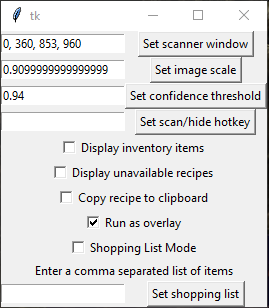
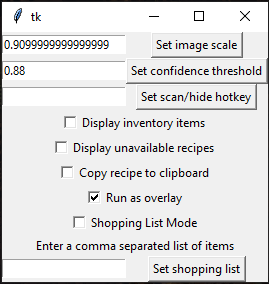
Update documentation for v0.2.1

Changed region(s): [[0.0, 0.0, 1.0, 1.0], [0.5651, 0.0563, 0.5948, 0.0845]]

diff --git a/README.md b/README.md
@@ -10,7 +10,7 @@ When you start the program three small buttons will pop up in the top left corne
 
 * '[X]' button just closes the program.
 * 'Settings' button open settings window (see below).
-* 'Scan' button does all the magic. Once you press it, the program will enter the scanning mode and the button will change to 'Scanning...'. It will scan your screen according to the scanning window area and will create a list of all possible recipes. After the scan completes, the button will change again to 'Hide'. Once you examine the scan result, click the 'Hide' button to hide them.
+* 'Scan' button does all the magic. Once you press it, the program will enter the scanning mode and the button will change to 'Scanning...'. It will scan your archnemesis inventory and will create a list of all possible recipes. After the scan completes, the button will change again to 'Hide'. Once you examine the scan result, click the 'Hide' button to hide them.
 
 You could also hold the right mouse button to drag the controls around.
 
@@ -20,10 +20,6 @@ The setting window allows you to adjust some parameters to improve the searching
 
 ![settings_window](docs/settings_window.png)
 
-* 'Set scanner window' button modifies the scanning area. The format for the window position is the following `x, y, width, height`. `x` and `y` are the horizontal and vertical offset from the top left corner of the screen. `width` and `height` are horizontal and vertical size of the window.
-
-  When you press the button, a white rectangle will pop up for a moment and then disappear. This rectangle shows the scanning window area to help with adjustments. The default value should work in most cases, but if you want to speed the search, it's recommended to adjust it.
-  
 * 'Set image scale' button sets the scaling factor for the source images. The current search algorithm expects the source image and the image on the screen to be the same size. Thus, we'll need to scale down/up the source images in order to get reliable results.
 
   The default calculated automatically based on the screen resolution and should work for most of the people. However, if you have some non-standard resolution, the search algorithm may not work properly, so you'll need to adjust this parameter manually.
